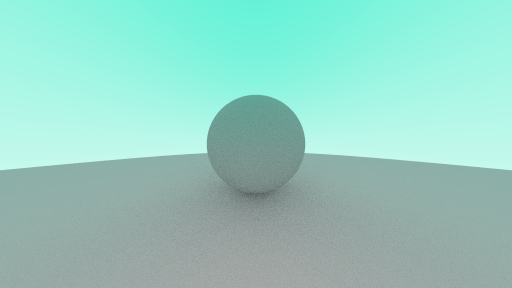
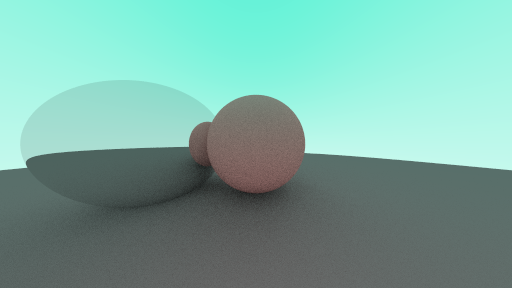
Added material abstraction with lambertian diffuse and metal material

diff --git a/src/renderer.cpp b/src/renderer.cpp
@@ -37,8 +37,6 @@ void renderer_t::render_scene(const scene::scene_t &scene, image_t &image) const
     const auto viewport_upper_left = math::float3(-viewport_u.r / 2.0f, -1.0f * viewport_v.g / 2.0f, focal_length) - camera_center;
     const auto upper_left_pixel_position = viewport_upper_left + (pixel_delta_u + pixel_delta_v) * 0.5f;
 
-    static constexpr u32 max_depth = 10u;
-
     for (const auto row : std::views::iota(0u, image.height))
     {
         for (const auto col : std::views::iota(0u, image.width))
@@ -67,7 +65,7 @@ void renderer_t::render_scene(const scene::scene_t &scene, image_t &image) const
                     return math::float3::lerp(white_color, teal_color, (ray_dir_y + 1.0f) * 0.5f);
                 };
 
-                const std::function<math::float3(math::ray_t, int)> get_color = [&](const math::ray_t ray, const int depth) -> math::float3
+                const std::function<math::float3(math::ray_t, u32)> get_color = [&](const math::ray_t ray, const u32 depth) -> math::float3
                 {
                     if (depth >= max_depth)
                     {
@@ -76,19 +74,8 @@ void renderer_t::render_scene(const scene::scene_t &scene, image_t &image) const
                     
                     if (const auto hit_record = scene.ray_hit(ray); hit_record.has_value())
                     {
-                        // If the ray hit an object (for now consider only diffuse material is used), a new ray is shot out.
-                        // The origin will be the hit point / point of intersection.
-                        // The direction will be randomized around a hemisphere centered at point of ray intersection.
-
-                        // If the direction and normal are having angle > 90 degrees, then 
-                        // we have to negate it since that ray does not lie in the hemisphere containing the normal.
-                        auto direction = utils::get_random_float3_in_sphere();
-                        if (math::float3::dot(direction, hit_record->normal) < 0.0f)
-                        {
-                            direction = -direction;
-                        }
-
-                        return get_color(math::ray_t(hit_record->point_of_intersection, direction), depth + 1) * 0.5f;
+                        auto direction = hit_record->mat->scatter_ray(ray, *hit_record);
+                        return get_color(direction, depth + 1) * hit_record->mat->albedo;
                     }
 
                     return get_background_color(camera_to_pixel_ray.direction.normalize().g);

diff --git a/src/main.cpp b/src/main.cpp
@@ -3,7 +3,9 @@
 #include "math/float3.hpp"
 #include "scene/scene.hpp"
 #include "renderer.hpp"
-
+#include "materials/material.hpp"
+#include "materials/lambertian_diffuse.hpp"
+#include "materials/metal.hpp"
 int main()
 {
     // Image setup.
@@ -14,23 +16,38 @@ int main()
     image_t image(image_width, image_height);
 
     renderer_t renderer{};
-    // Conventions used : Left handed coordinate system.
     renderer.camera_center = math::float3(0.0f, 0.0f, 0.0f);
+    renderer.max_depth = 100;
+    renderer.sample_count = 100;
 
+    // Materials.
+    constexpr material::lambertian_diffuse background_sphere_mat = material::lambertian_diffuse(math::float3(0.2f, 0.2f, 0.2f));
+    constexpr material::lambertian_diffuse foreground_sphere_mat = material::lambertian_diffuse(math::float3(0.7f, 0.3f, 0.3f));
+    constexpr material::metal foreground_sphere_mat_2 = material::metal(math::float3(0.8f, 0.8f, 0.8f));
+    
     // Scene objects.
-    constexpr scene::sphere_t sphere = scene::sphere_t{
+    const scene::sphere_t sphere = scene::sphere_t{
         .center = math::float3(0.0f, 0.0f, 1.0f),
         .radius = 0.5f,
+        .mat = foreground_sphere_mat,
     };
 
-    constexpr scene::sphere_t background_sphere = scene::sphere_t{
+    const scene::sphere_t sphere_2 = scene::sphere_t{
+        .center = math::float3(-1.0f, 0.0f, 1.0f),
+        .radius = 0.6f,
+        .mat = foreground_sphere_mat_2,
+    };
+
+    const scene::sphere_t background_sphere = scene::sphere_t{
         .center = math::float3(0.0f, -100.5f, 1.0f),
         .radius = 100.0f,
+        .mat = background_sphere_mat,
     };
 
     scene::scene_t world{};
     world.add_sphere(sphere);
     world.add_sphere(background_sphere);
+    world.add_sphere(sphere_2);
 
     renderer.render_scene(world, image);
 

diff --git a/src/scene/scene.cpp b/src/scene/scene.cpp
@@ -3,6 +3,8 @@
 #include "scene/sphere.hpp"
 #include "math/ray.hpp"
 
+#include "hit_details.hpp"
+
 #include <climits>
 #include <optional>
 
@@ -15,6 +17,12 @@ namespace scene
 
     std::optional<hit_details_t> scene_t::ray_hit(const math::ray_t& ray) const
     {
+        // The value of t is slightly greater than 0 because of shadow acne.
+        // There are situations where due to floating point precision problems, we may have 
+        // a case where the ray param at t is not the exact value, causing the intersection point to be 
+        // beneath the surface rather than on it. This will cause the ray to continuously intersect the surface of the sphere,
+        // causing continous intersections results in false - shadowing.
+        // By setting min_t to be greater than 0, this problem can be resolved.
         float min_t = 0.001f;
         float max_t = std::numeric_limits<float>::max();
 
@@ -46,6 +54,8 @@ namespace scene
                     ray_hit_details.back_face = true;
                     ray_hit_details.normal = normal * -1.0f;
                 }
+
+                ray_hit_details.mat = &sphere.mat;
 
                 max_t = *t;
 

diff --git a/include/cuda-raytracer/utils.hpp b/include/cuda-raytracer/utils.hpp
@@ -5,7 +5,7 @@
 
 namespace utils
 {
-    float random_float_in_range_0_1()
+    static inline float random_float_in_range_0_1()
     {
         static std::uniform_real_distribution<float> distribution(0.0f, 1.0f);
         static std::mt19937 generator{};
@@ -13,17 +13,17 @@ namespace utils
         return distribution(generator);
     }
 
-    math::float3 get_random_float3_in_range_0_1()
+    static math::float3 get_random_float3_in_range_0_1()
     {
         return math::float3(random_float_in_range_0_1(), random_float_in_range_0_1(), random_float_in_range_0_1());
     }
 
-    math::float3 get_unit_float3_in_cube()
+    static math::float3 get_unit_float3_in_cube()
     {
         return math::float3(random_float_in_range_0_1() - 0.5f, random_float_in_range_0_1() - 0.5f, random_float_in_range_0_1() - 0.5f);
     }
 
-    math::float3 get_random_float3_in_sphere()
+    static math::float3 get_random_float3_in_sphere()
     {
         // To get a random float3 in sphere, use the rejection method.
         // First get random float3 in cube (with w / h / d in range -1 to 1).

diff --git a/src/materials/lambertian_diffuse.cpp b/src/materials/lambertian_diffuse.cpp
@@ -1,0 +1,24 @@
+#include "materials/lambertian_diffuse.hpp"
+
+#include "hit_details.hpp"
+#include "utils.hpp"
+
+namespace material
+{
+    math::ray_t lambertian_diffuse::scatter_ray(const math::ray_t& ray, const hit_details_t &hit_details) const
+    {
+        // Direction is basically intersection point + normal + random float in sphere.
+        // However, since scattered ray direction is this direction - intersection point, 
+        // that term is not included explicitly in direction.
+        math::float3 direction = (hit_details.normal + utils::get_random_float3_in_sphere().normalize()).normalize();
+
+        // Check to see if the direction of scattered ray is close to 0 (i.e it is in the opposite direction of normal).
+        constexpr float epsilon = 0.000001f;
+        if (std::fabs(direction.r) <= epsilon &&  std::fabs(direction.g) <= epsilon && std::fabs(direction.b) <= epsilon)
+        {
+            direction = hit_details.normal;
+        }
+
+        return math::ray_t(hit_details.point_of_intersection, direction); 
+    };
+}

diff --git a/src/materials/metal.cpp b/src/materials/metal.cpp
@@ -1,0 +1,17 @@
+#include "materials/metal.hpp"
+
+#include "hit_details.hpp"
+#include "utils.hpp"
+
+namespace material
+{
+    math::ray_t metal::scatter_ray(const math::ray_t& ray, const hit_details_t &hit_details) const
+    {
+        // The direction is a reflection of the viewing / incoming ray direction (reflected around the normal).
+        // That -1 is present because cos is negative (as normal and incoming ray direction v have angle between them
+        // > 90 degree).
+        math::float3 direction = ray.direction + hit_details.normal * -1.0f * 2.0f * math::float3::dot(hit_details.normal, ray.direction);
+
+        return math::ray_t(hit_details.point_of_intersection, direction.normalize()); 
+    };
+}

diff --git a/test/float3_test.hpp b/test/float3_test.hpp
@@ -76,6 +76,16 @@ void float3_test()
         static_assert(((res.r == 2.0f) && (res.g == 3.0f) && (res.b == 4.0f)) && "float3 subtraction failed!");
     }
 
+    // Element wise multiplciation test.
+    {
+        constexpr math::float3 a(1.0f, 2.0f, 3.0f);
+        constexpr math::float3 b(-1.0f, -1.0f, -1.0f);
+
+        constexpr auto res = a * b;;
+        static_assert(((res.r == -1.0f) && (res.g == -2.0f) && (res.b == -3.0f)) && "float3 element wise multiplication failed!");
+    }
+
+
     // float3 and scalar multiplication test.
     {
         constexpr math::float3 a(1.0f, 2.0f, 3.0f);

diff --git a/include/cuda-raytracer/scene/sphere.hpp b/include/cuda-raytracer/scene/sphere.hpp
@@ -2,6 +2,7 @@
 
 #include "math/float3.hpp"
 #include "math/ray.hpp"
+#include "materials/material.hpp"
 
 #include <optional>
 
@@ -11,7 +12,10 @@ namespace scene
     {
         math::float3 center{};
         float radius{1.0f};
-    
+        const material::material_t& mat;
+
+        // Returns the ray parameter 't' if the ray hits the sphere and the value of t lies in the range
+        // min_t and max_t. 
         const std::optional<float> hit_by_ray(const math::ray_t &ray, const float min_t, const float max_t) const;
     };
 }

diff --git a/include/cuda-raytracer/materials/material.hpp b/include/cuda-raytracer/materials/material.hpp
@@ -1,0 +1,22 @@
+#pragma once
+
+#include "math/float3.hpp"
+#include "math/ray.hpp"
+
+struct hit_details_t;
+
+namespace material
+{
+    // A abstraction for all materials.
+    // All materials must override the scatter_ray function.
+    class material_t
+    {
+    public:
+        constexpr material_t(const math::float3& albedo) : albedo(albedo) {}
+
+        virtual math::ray_t scatter_ray(const math::ray_t& ray, const hit_details_t &hit_details) const = 0;
+
+    public:
+        math::float3 albedo{};
+    };
+}

diff --git a/include/cuda-raytracer/scene/scene.hpp b/include/cuda-raytracer/scene/scene.hpp
@@ -5,19 +5,10 @@
 
 #include "sphere.hpp"
 #include "math/ray.hpp"
+#include "hit_details.hpp"
 
 namespace scene
 {
-    // After a ray hits a object, the details at the point of intersection are stored in this struct.
-    struct hit_details_t
-    {
-        math::float3 point_of_intersection{};
-        float ray_param_t{};
-
-        math::float3 normal{};
-        bool back_face{false};
-    };
-
     // A abstraction that contains a list of hittable objects.
     class scene_t
     {

diff --git a/include/cuda-raytracer/hit_details.hpp b/include/cuda-raytracer/hit_details.hpp
@@ -1,0 +1,20 @@
+#pragma once
+
+#include "math/float3.hpp"
+
+namespace material
+{
+    class material_t;
+};
+
+// After a ray hits a object, the details at the point of intersection are stored in this struct.
+struct hit_details_t
+{
+    math::float3 point_of_intersection{};
+    float ray_param_t{};
+
+    math::float3 normal{};
+    bool back_face{false};
+
+    const material::material_t* mat{};
+};

diff --git a/src/image.cpp b/src/image.cpp
@@ -7,6 +7,7 @@
 void image_t::add_normalized_float3_to_buffer(const math::float3 &x)
 {
     // The RGB color is being gamma converted and converted to 0 -> 255 range here.
+    // While gamma is 1/2.2f, we can use sqrt as a optimization for speed up.
     const auto rgb = std::vector{
         static_cast<u8>(255.0f * std::sqrt(x.r)),
         static_cast<u8>(255.0f * std::sqrt(x.g)),
